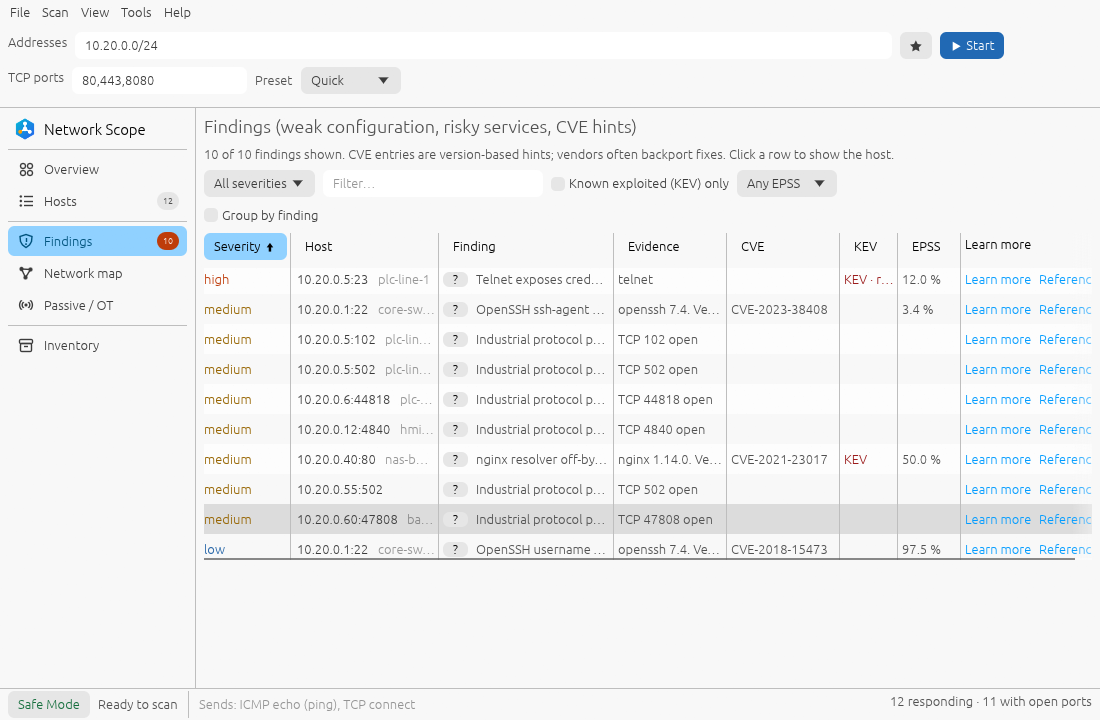
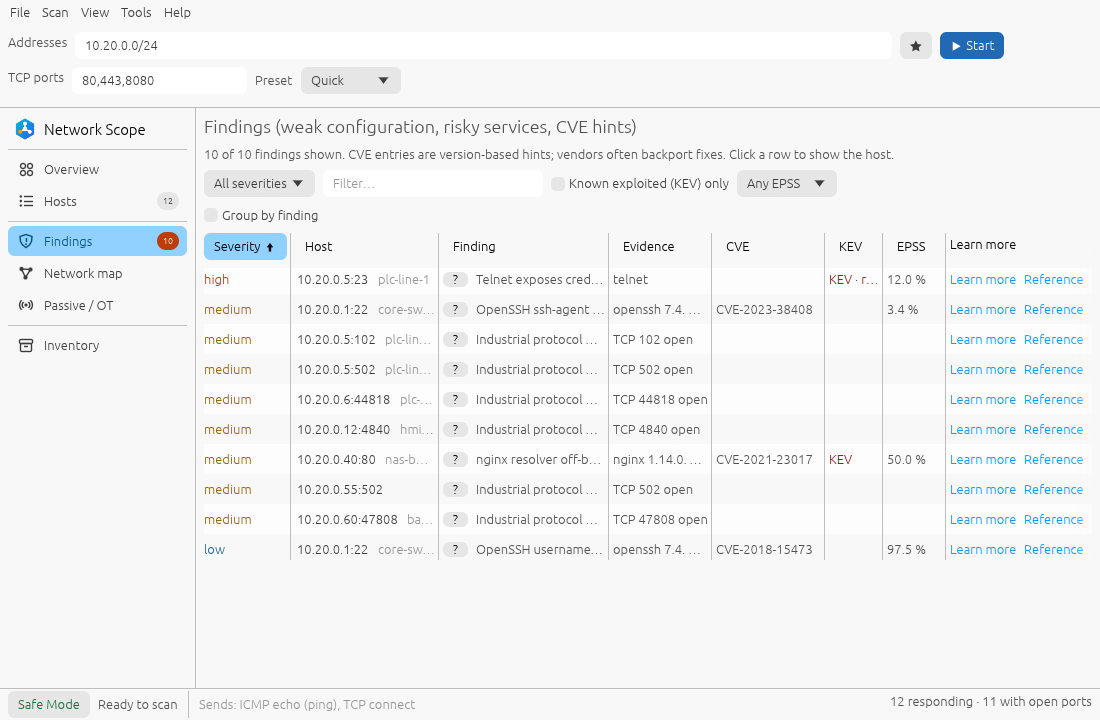
Findings table: room for both links at 1100 px

diff --git a/src/gui/windows.rs b/src/gui/windows.rs
@@ -331,11 +331,11 @@ impl Scanner {
                             .column(Column::initial(65.0))
                             .column(Column::initial(140.0).clip(true))
                             .column(Column::remainder().at_least(150.0).clip(true))
-                            .column(Column::initial(105.0).clip(true))
+                            .column(Column::initial(95.0).clip(true))
                             .column(Column::initial(105.0).clip(true))
                             .column(Column::initial(50.0).clip(true))
                             .column(Column::initial(55.0))
-                            .column(Column::initial(145.0))
+                            .column(Column::initial(160.0))
                             .header(22.0, |mut row| {
                                 for (i, h) in tables::finding_columns().iter().enumerate() {
                                     row.col(|ui| {
